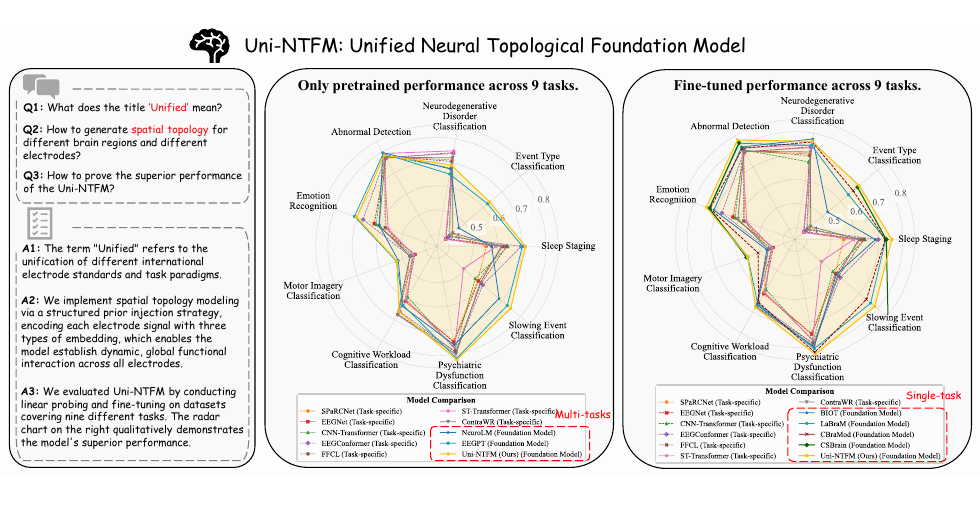
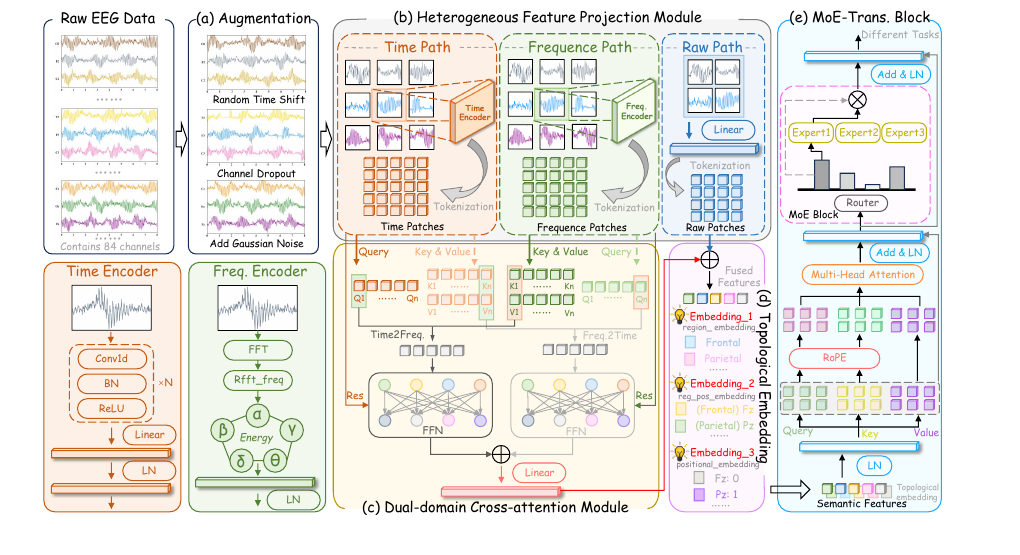
Update Uni-NTFM publication figure

diff --git a/index.html b/index.html
@@ -9,7 +9,7 @@
       content="Academic homepage for Qizhen Lan: research, publications, news, experience, and service."
     />
     <link rel="icon" href="assets/img/favicon.svg" type="image/svg+xml" />
-    <link rel="stylesheet" href="styles.css?v=20260528-12" />
+    <link rel="stylesheet" href="styles.css?v=20260528-13" />
   </head>
   <body>
     <a class="skip-link" href="#main">Skip to content</a>
@@ -94,7 +94,7 @@
       <span id="footer-name">Qizhen Lan</span> <span id="footer-year"></span>. Inspired by clean academic homepage templates.
     </footer>
 
-    <script src="data/content.js?v=20260528-12"></script>
-    <script src="script.js?v=20260528-12"></script>
+    <script src="data/content.js?v=20260528-13"></script>
+    <script src="script.js?v=20260528-13"></script>
   </body>
 </html>

diff --git a/data/content.js b/data/content.js
@@ -181,7 +181,7 @@ window.SITE_CONTENT = {
           title: "Uni-NTFM: A Unified Foundation Model for EEG Signal Representation Learning",
           authors: "Zhisheng Chen, Yingwei Zhang, Qizhen Lan, Tianyu Liu, Huacan Wang, Yi Ding, Ziyu Jia, Ronghao Chen, Kun Wang, Xinliang Zhou",
           venue: "ICLR 2026 Poster",
-          image: "assets/img/Uni-NTFM-main.png",
+          image: "assets/img/Uni-NTFM-main.png?v=20260528-13",
           links: [{ label: "Paper", url: "https://arxiv.org/pdf/2509.24222" }]
         },
         {